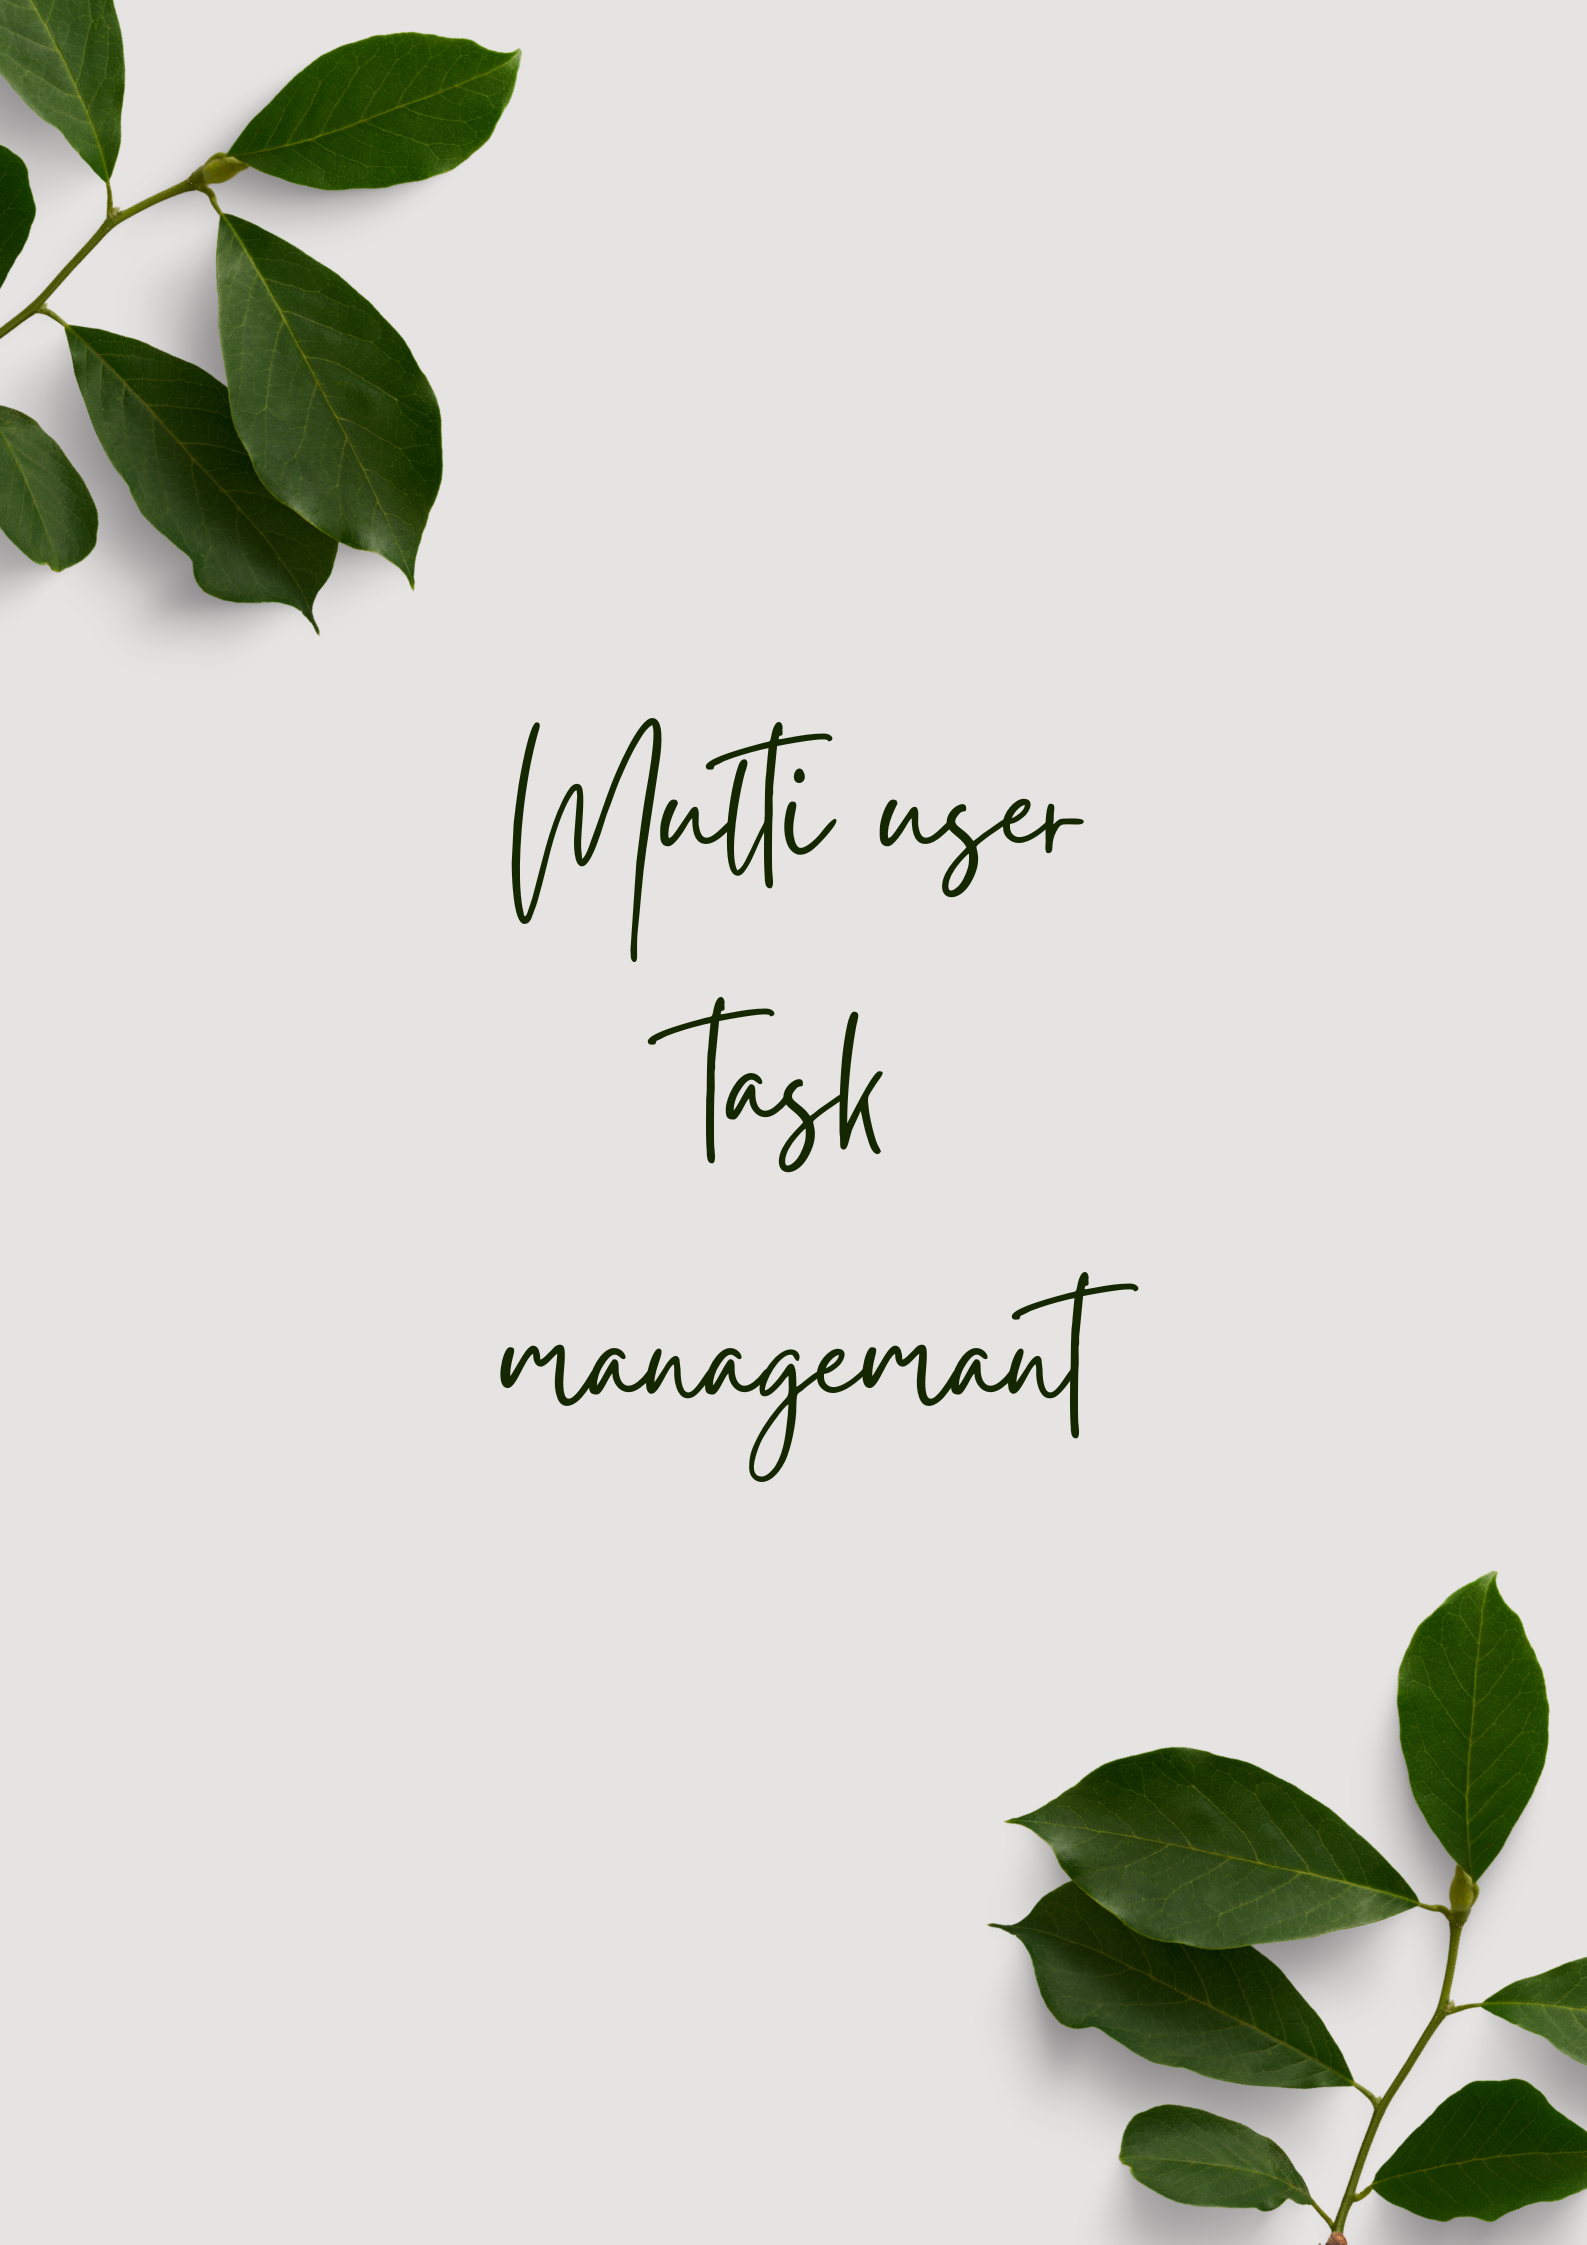
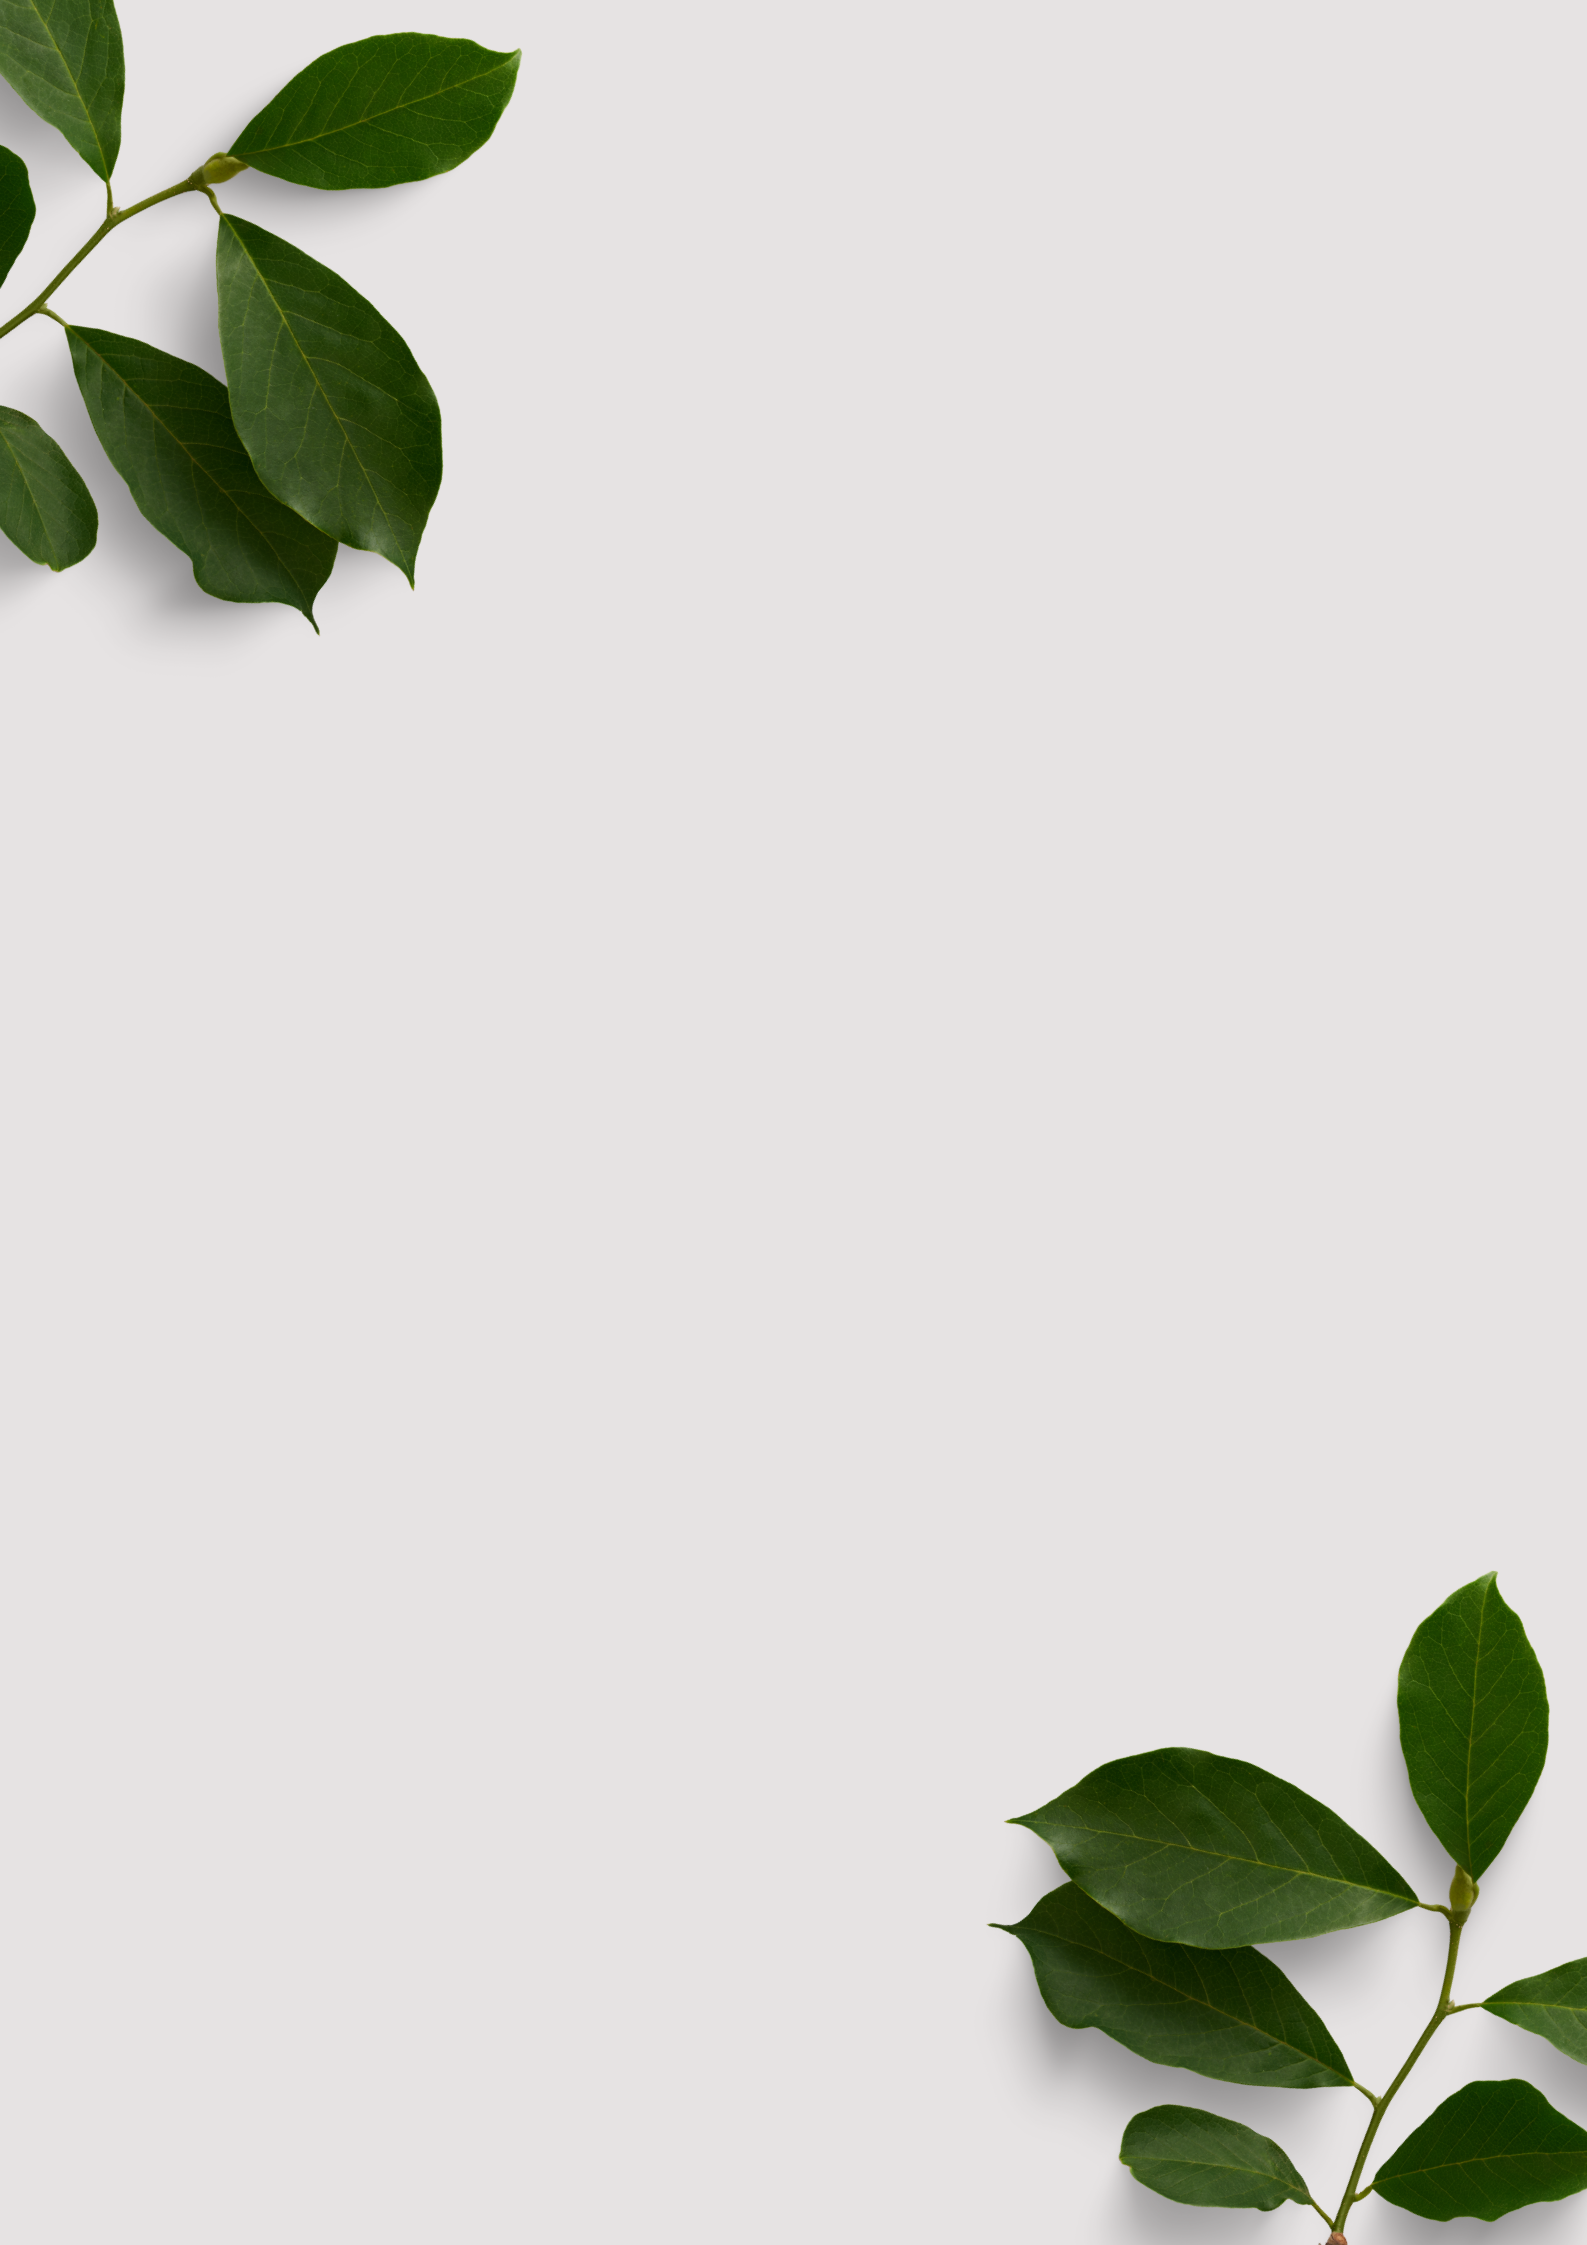
style

diff --git a/lib/Style/style.dart b/lib/Style/style.dart
@@ -1,0 +1,43 @@
+import 'package:flutter/material.dart';
+import 'package:flutter_svg/svg.dart';
+
+const red = Color.fromRGBO(231, 28, 36, 1);
+const dark = Color.fromRGBO(136, 28, 32, 1);
+const green = Color.fromRGBO(33, 191, 115, 1);
+const blue = Color.fromRGBO(52, 152, 219, 1.0);
+const orange = Color.fromRGBO(230, 126, 34, 1.0);
+const white = Color.fromRGBO(255, 255, 255, 1.0);
+const darkBlue = Color.fromRGBO(44, 62, 80, 1.0);
+const lightGray = Color.fromRGBO(135, 142, 150, 1.0);
+const light = Color.fromRGBO(211, 211, 211, 1.0);
+
+TextStyle headLine(dynamic textColor) {
+  return TextStyle(color: textColor, fontSize: 28, fontWeight: FontWeight.w700);
+}
+
+TextStyle subLine(dynamic textColor) {
+  return TextStyle(color: textColor, fontSize: 16, fontWeight: FontWeight.w400);
+}
+
+InputDecoration inputDecoration(dynamic labelTxt) {
+  return InputDecoration(
+    focusedBorder: OutlineInputBorder(
+      borderSide: BorderSide(color: green, width: 1),
+    ),
+    fillColor: white,
+    filled: true,
+    contentPadding: EdgeInsets.fromLTRB(20, 10, 10, 20),
+    border: OutlineInputBorder(),
+    labelText: labelTxt,
+  );
+}
+
+SvgPicture screenBackground(BuildContext context) {
+  return SvgPicture.asset(
+    'assets/images/background-image.png',
+    alignment: Alignment.center,
+    width: MediaQuery.of(context).size.width,
+    height: MediaQuery.of(context).size.height,
+    fit: BoxFit.cover,
+  );
+}
